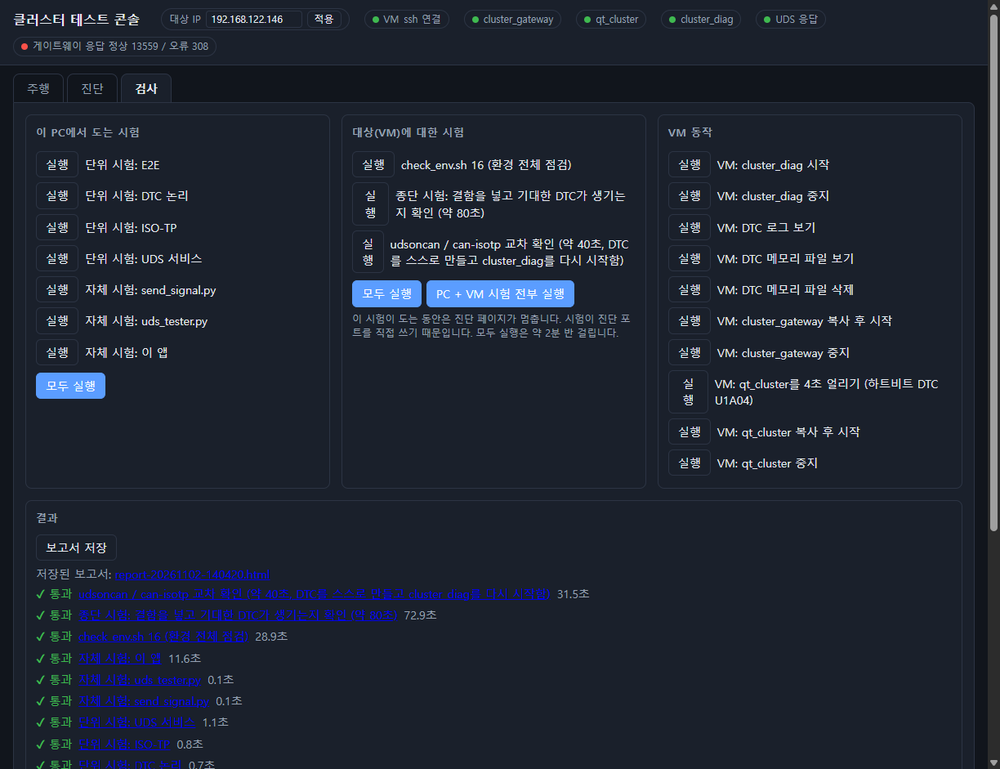
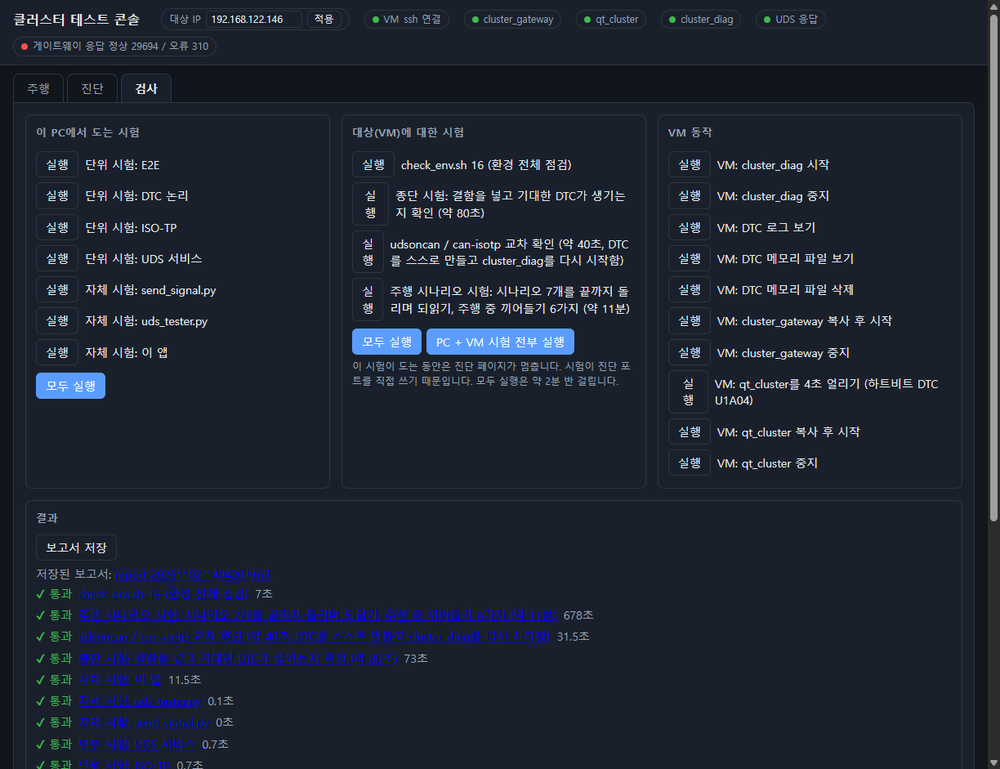
Update the checks screenshot and the diagram with the scenario test
- console_checks.png: taken again on the VM, with the driving scenario test
  in the list and all results passed (scenario 120/120).
- architecture.svg: the scenario test in the list of tests.

diff --git a/qnx_cluster/SETUP_GUIDE.md b/qnx_cluster/SETUP_GUIDE.md
@@ -147,4 +147,4 @@ qnx_cluster/
 
 ## 이 문서의 검증 범위
 
-2026-11-10에 Windows 11, Ubuntu-24.04(WSL2), QNX SDP 8.0, Qt 6.8.5, 라즈베리 파이 4와 QEMU VM에서 exe로 시작해 모든 시험이 통과했고, 2026-11-12에 두 대상에서 종단 시험과 교차 확인을 다시 통과했습니다. 그림의 화면은 2026-11-10에 실제로 찍은 것입니다(파이 점검 화면은 2026-11-12). 아무것도 설치되지 않은 PC에서 처음부터 끝까지 해 보지는 않았습니다.
+2026-11-10에 Windows 11, Ubuntu-24.04(WSL2), QNX SDP 8.0, Qt 6.8.5, 라즈베리 파이 4와 QEMU VM에서 exe로 시작해 모든 시험이 통과했고, 2026-11-12에 두 대상에서 종단 시험과 교차 확인을 다시 통과했습니다. 그림의 화면은 2026-11-10에 실제로 찍은 것입니다(파이 점검 화면은 2026-11-12, 검사 탭은 2026-11-16: 주행 시나리오 시험 120/120 포함). 아무것도 설치되지 않은 PC에서 처음부터 끝까지 해 보지는 않았습니다.
